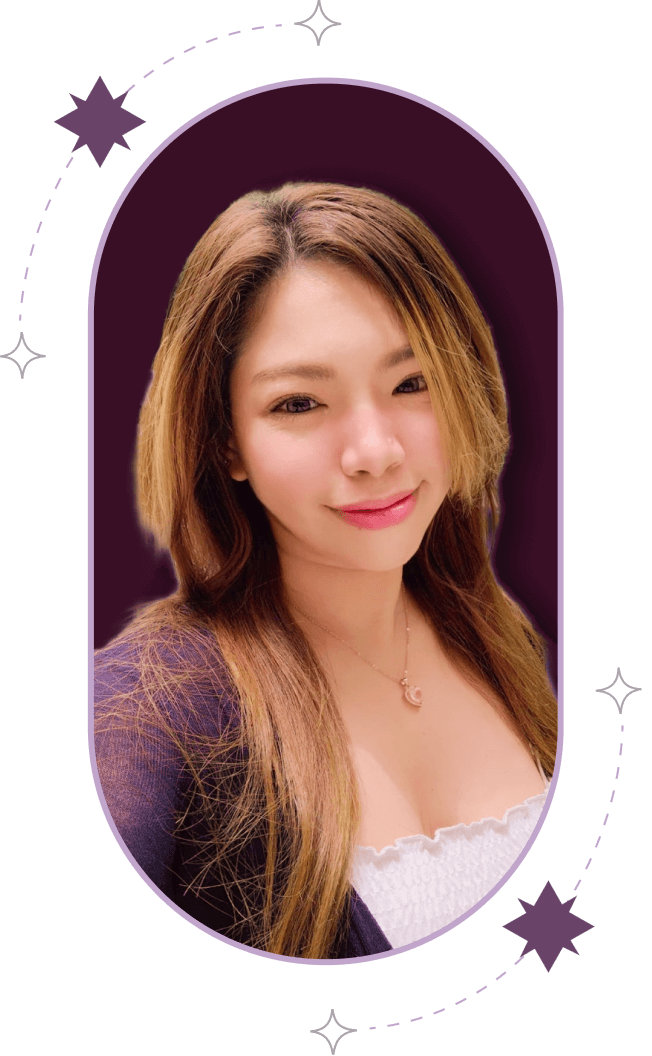
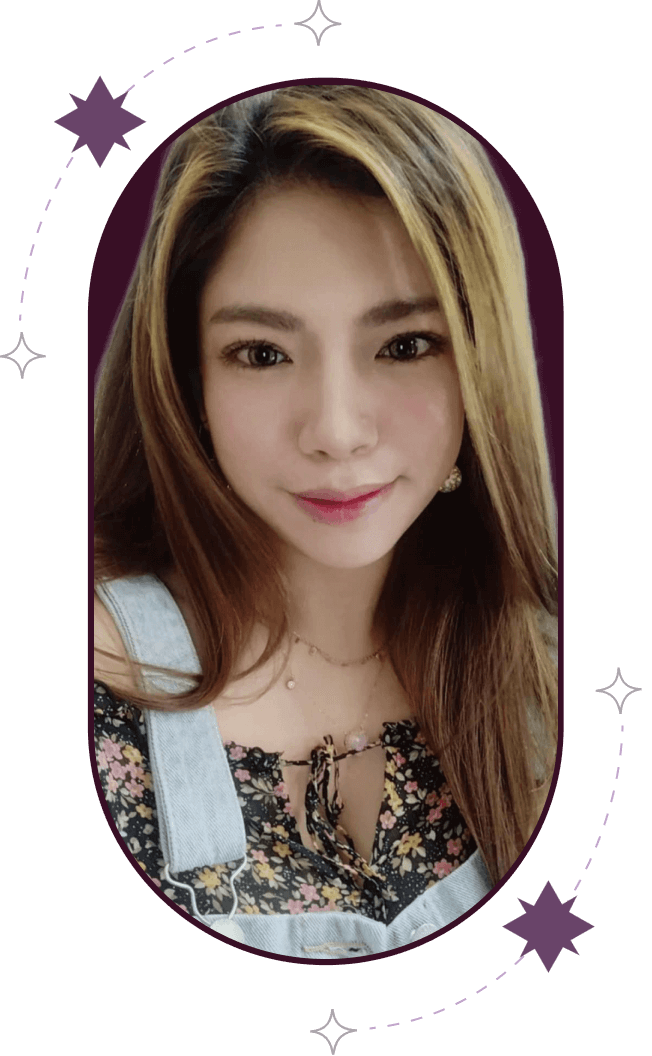
feat(about): new images

diff --git a/src/app/components/About.tsx b/src/app/components/About.tsx
@@ -82,6 +82,8 @@ function DesktopPicture() {
       width={452}
       height={1056}
       alt="Leona Aoki"
+      placeholder="blur"
+      blurDataURL="/assets/leona-blurred.png"
       className="hidden md:block"
     />
   );
@@ -94,6 +96,8 @@ function MobilePicture() {
       width={309}
       height={761}
       alt="Leona Aoki"
+      placeholder="blur"
+      blurDataURL="/assets/leona-mobile-blurred.png"
       className="mx-auto md:hidden"
     />
   );
